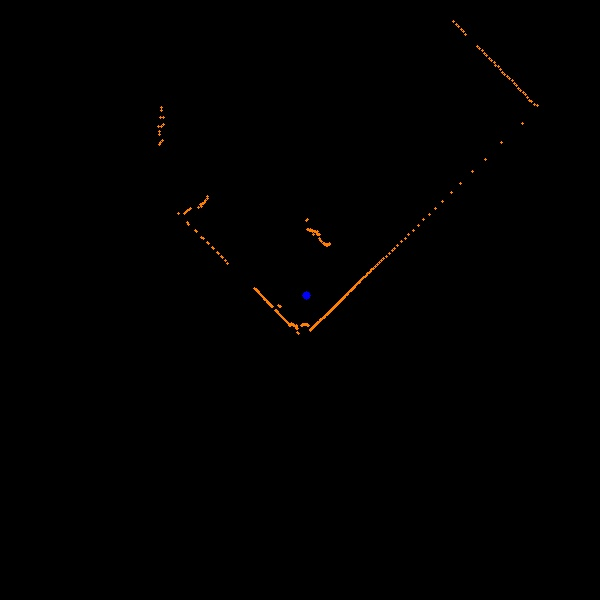
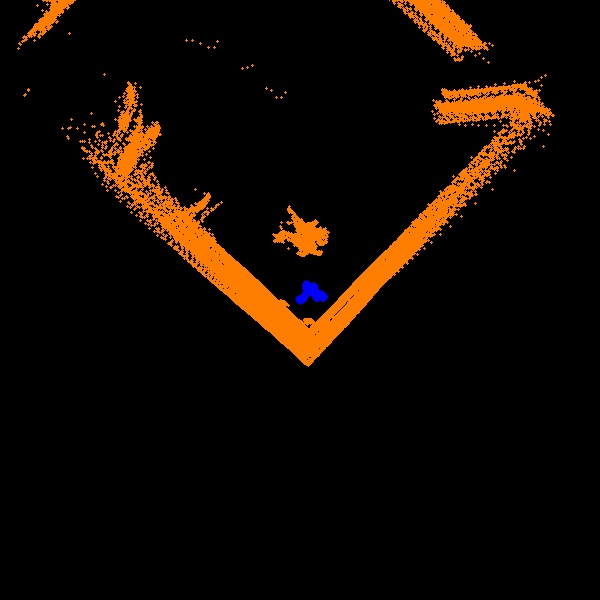
updated self-navigator

Changed region(s): [[0.09, 0.0, 0.93, 0.63], [0.03, 0.0, 0.12, 0.09]]

diff --git a/src/modules/self_navigator/self_navigator_main.cpp b/src/modules/self_navigator/self_navigator_main.cpp
@@ -16,7 +16,9 @@ static bool thread_should_exit = false;
 static int daemon_task;
 
 __self_nav Nav;
+__coordinate_cov Cov, Cov_Current;
 int test_flight();			// 试飞
+int test_flight_socket();
 
 int self_navigator_main(int argc, char *argv[])
 {
@@ -58,28 +60,21 @@ int self_navigator_thread_main(int argc, char *argv[])
 {
 	//uint64_t timetick = hrt_absolute_time();
 	//int sended = 0;
-	__NED tgt_ned = { 0 }, current_ned = { 0 };
 	int rc_ch8 = 0;
-	__coordinate_cov Cov, Cov_Current;
 
 	Nav.Init();
 
-	//int home_pos_sub = orb_subscribe(ORB_ID(home_position));
-	//px4_pollfd_struct_t fds;
-	//fds.events = POLLIN;
-
-	/// 更新起飞位置
-	while (Nav.update_HomePos() != SUCCESS) { }
-	Cov.update_HomePos(Nav.home_pos.lat, Nav.home_pos.lon, Nav.home_pos.alt);
+	/// 初始变量设置
+	Nav._command.target_system = Nav.vehicle_stat.system_id;//system_id写入
+	Nav._command.target_component = Nav.vehicle_stat.component_id;//component_id写入
 
 	/// 更新载具信息
 	//  这里开始获取vehicle_status,有vehicle_status_s里面的system_id和component_id才能发送vehicle_command命令飞机
 	while (Nav.update_VehicleStatus() != SUCCESS) { }
 
-
-	/// 初始变量设置
-	Nav._command.target_system = Nav.vehicle_stat.system_id;//system_id写入
-	Nav._command.target_component = Nav.vehicle_stat.component_id;//component_id写入
+	/// 更新起飞位置
+	while (Nav.update_HomePos() != SUCCESS) { }
+	Cov.update_HomePos(Nav.home_pos.lat, Nav.home_pos.lon, Nav.home_pos.alt);
 
 	/// 设置进入posctl模式
 	//  这样在退出offboard的时候会进入posctl，飞机不容易失控
@@ -88,7 +83,6 @@ int self_navigator_thread_main(int argc, char *argv[])
 		//如果没有跳出表示切换失败,循环回去再切换
 		usleep(10000);
 	}
-
 
 	///
 	//////////////////////////////////////////////////////////
@@ -106,61 +100,6 @@ int self_navigator_thread_main(int argc, char *argv[])
 
 	/// 拍视频的时候先用这个测试，省事
 	//test_flight();
-
-
-	Nav.update_User_Status(500);
-	Cov.update_Current_Pos(Nav.gbl_pos.lat, Nav.gbl_pos.lon, Nav.gbl_pos.alt);
-	tgt_ned = Cov.WGS84toNED(Nav.skt_recv.lat, Nav.skt_recv.lng, Nav.skt_recv.alt); // home position
-	Nav.get_Tgt_NED(tgt_ned);
-
-
-	float vx, vy;
-	double v_all = 1.5f;
-	double theta;
-	double d_lon, d_lat;
-
-	d_lon = (double)Nav.skt_recv.lng - Nav.gbl_pos.lon * 10000000.0f;
-	d_lat = (double)Nav.skt_recv.lat - Nav.gbl_pos.lat * 10000000.0f;
-
-	theta = atan2(d_lat, d_lon);
-	vx = v_all * sin(theta);
-	vy = v_all * cos(theta);
-
-	//Nav.set_Position(0, 0, 10, vx, vy);		// NAN NAN alt vx vy
-
-
-	int i = 0;
-	do
-	{
-		Nav.update_HeartBeat();
-
-		if (i % 10 == 0)
-		{
-			Nav.update_User_Status(100);
-			Cov.update_Current_Pos(Nav.gbl_pos.lat, Nav.gbl_pos.lon, Nav.gbl_pos.alt);
-			tgt_ned = Cov.WGS84toNED(Nav.skt_recv.lat, Nav.skt_recv.lng, Nav.skt_recv.alt); // home position
-			Nav.get_Tgt_NED(tgt_ned);
-
-			d_lon = (double)Nav.skt_recv.lng - Nav.gbl_pos.lon * 10000000.0f;
-			d_lat = (double)Nav.skt_recv.lat - Nav.gbl_pos.lat * 10000000.0f;
-
-			theta = atan2(d_lat, d_lon);
-			vx = v_all * sin(theta);
-			vy = v_all * cos(theta);
-
-			Nav.set_Position(0, 0, 10, vx, vy);		// NAN NAN alt vx vy
-
-			warnx("Lat %f, Lon %f", Nav.gbl_pos.lat, Nav.gbl_pos.lon);
-			i = 0;
-		}
-
-
-
-		usleep(300000);
-		i++;
-	} while (Nav.is_Reached_TgtLocation() != true);
-	Nav.Land();
-
 
 	///
 	/// 主循环
@@ -278,3 +217,64 @@ int test_flight()
 	return SUCCESS;
 
 }// int test_flight()
+
+int test_flight_socket()
+{
+	int i = 0;
+	__NED tgt_ned = { 0 }, current_ned = { 0 };
+
+	Nav.update_User_Status(500);
+	Cov.update_Current_Pos(Nav.gbl_pos.lat, Nav.gbl_pos.lon, Nav.gbl_pos.alt);
+	tgt_ned = Cov.WGS84toNED(Nav.skt_recv.lat, Nav.skt_recv.lng, Nav.skt_recv.alt); // home position
+	Nav.get_Tgt_NED(tgt_ned);
+
+
+	float vx, vy;
+	double v_all = 1.5f;
+	double theta;
+	double d_lon, d_lat;
+
+	d_lon = (double)Nav.skt_recv.lng - Nav.gbl_pos.lon * 10000000.0f;
+	d_lat = (double)Nav.skt_recv.lat - Nav.gbl_pos.lat * 10000000.0f;
+
+	theta = atan2(d_lat, d_lon);
+	vx = v_all * sin(theta);
+	vy = v_all * cos(theta);
+
+	//Nav.set_Position(0, 0, 10, vx, vy);		// NAN NAN alt vx vy
+
+
+	do
+	{
+		Nav.update_HeartBeat();
+
+		if (i % 10 == 0)
+		{
+			Nav.update_User_Status(100);
+			Cov.update_Current_Pos(Nav.gbl_pos.lat, Nav.gbl_pos.lon, Nav.gbl_pos.alt);
+			tgt_ned = Cov.WGS84toNED(Nav.skt_recv.lat, Nav.skt_recv.lng, Nav.skt_recv.alt); // home position
+			Nav.get_Tgt_NED(tgt_ned);
+
+			d_lon = (double)Nav.skt_recv.lng - Nav.gbl_pos.lon * 10000000.0f;
+			d_lat = (double)Nav.skt_recv.lat - Nav.gbl_pos.lat * 10000000.0f;
+
+			theta = atan2(d_lat, d_lon);
+			vx = v_all * sin(theta);
+			vy = v_all * cos(theta);
+
+			Nav.set_Position(0, 0, 10, vx, vy);		// NAN NAN alt vx vy
+
+			warnx("Lat %f, Lon %f", Nav.gbl_pos.lat, Nav.gbl_pos.lon);
+			i = 0;
+		}
+
+
+
+		usleep(300000);
+		i++;
+	} while (Nav.is_Reached_TgtLocation() != true);
+	Nav.Land();
+
+	return SUCCESS;
+
+}// int test_flight_socket()

diff --git a/src/modules/rplidar/lidar_msg.cpp b/src/modules/rplidar/lidar_msg.cpp
@@ -15,6 +15,10 @@ int __lidar_msg::init()
 	Acc  = { 0.0f };
 	AHRS = { 0.0f };
 
+	// 准备发布
+	slam_pub = orb_advertise(ORB_ID(rp_slam), &slam_data);
+
+
 	return 0;
 
 }// int __lidar_msg::init()
@@ -34,12 +38,21 @@ int __lidar_msg::receive_Data(int nms)
 
 }// int __lidar_msg::receive_Data()
 
-int __lidar_msg::publish_Data()
+int __lidar_msg::publish_SlamData(double dx, double dy, double x, double y)
 {
+	slam_data.x_last = slam_data.x;
+	slam_data.y_last = slam_data.y;
+	slam_data.x = x;
+	slam_data.y = y;
+
+	slam_data.dx = dx;
+	slam_data.dy = dy;
+
+	orb_publish(ORB_ID(rp_slam), slam_pub, &slam_data);
 
 	return 0;
 
-}// int __lidar_msg::publish_Data()
+}// int __lidar_msg::publish_SlamData(double dx, double dy, double x, double y)
 
 bool __lidar_msg::update_AHRS(int nms)
 {

diff --git a/src/modules/rplidar/include/lidar_msg.h b/src/modules/rplidar/include/lidar_msg.h
@@ -9,6 +9,7 @@
 #include <uORB/uORB.h>
 #include <uORB/topics/sensor_combined.h>
 #include <uORB/topics/vehicle_attitude.h>
+#include <uORB/topics/rp_slam.h>
 #include <poll.h>
 
 class __lidar_msg
@@ -22,7 +23,7 @@ public:
 	int init();
 
 	int receive_Data(int nms);
-	int publish_Data();
+	int publish_SlamData(double dx, double dy, double x, double y);
 
 private:
 
@@ -30,8 +31,13 @@ private:
 	int vehicle_att_sub_fd;
 	int sensor_combined_sub_fd;
 
+	// 激光雷达数据发布
+	orb_advert_t slam_pub;
+
 	struct vehicle_attitude_s vehicle_att;
 	struct sensor_combined_s  sensor_raw;
+
+	struct rp_slam_s slam_data;
 
 	bool update_AHRS(int nms);
 	bool update_VehicleAtt(int nms);

diff --git a/src/modules/rplidar/include/slam.h b/src/modules/rplidar/include/slam.h
@@ -33,6 +33,8 @@ public:
 	double yaw;
 	Mat    Map;
 
+	double dt;
+
 	int update_Data(vector<__scandot> in,
 					double dx_in, double dy_in,
 					double d_yaw_in);
@@ -61,8 +63,8 @@ private:
 	const double F = 1;
 	const double H = 1;
 	const double I = 1;
-	const double Q = 0.1  * 0.1;		// 0.05  * 0.05
-	const double R = 0.01 * 0.01;		// 0.005 * 0.005
+	const double Q = 0.07  * 0.07;		// 0.05  * 0.05
+	const double R = 0.005 * 0.005;		// 0.005 * 0.005
 
 	/// 卡尔曼滤波器全局变量
 	double Xx, Xy;
@@ -85,7 +87,7 @@ private:
 #else
 	double t_last, t_now;
 #endif
-	double dt;
+	//double dt;				// 转为公有
 	double update_Time();
 };
 

diff --git a/src/modules/rplidar/slam.cpp b/src/modules/rplidar/slam.cpp
@@ -30,6 +30,7 @@ __slam::__slam(double yaw_initial)
 {
 	__slam();
 
+	// 初始化的时候不知道为什么前面写好了这里还没作用
 	if (Map.empty())
 	{
 		Mat zero(Map_ImgHeight, Map_ImgWidth, CV_8UC3, Scalar(0, 0, 0));		// 图片格式： BGR
@@ -238,7 +239,7 @@ void __slam::draw_Map(bool is_show)
 	//Map = zero.clone();
 	//zero.release();
 	// 当前位置
-	circle(Map, Point((int)x_pixel, (int)y_pixel), 4, Scalar(255, 0, 0), -1, 8, 0);
+	circle(Map, Point((int)x_pixel, (int)y_pixel), 2, Scalar(255, 0, 255), -1, 8, 0);
 
 
 	for (unsigned int i = 0; i < data.size(); i++)	// scan_data.size()

diff --git a/src/modules/self_navigator/nav_basic.cpp b/src/modules/self_navigator/nav_basic.cpp
@@ -500,7 +500,7 @@ int __self_nav::Land()
 {
 	int i = 0;
 
-	while (i < 50)
+	while (i < 25)
 	{
 		i++;
 
@@ -545,11 +545,15 @@ int __self_nav::Land()
 		}
 
 		update_HeartBeat();
-		usleep(300000);		// 300ms
+		usleep(50000);		// 50ms
 	}
 
-	warnx("land failed!");
-	return FAILED;
+	///
+	/// 新版的不能使用降落命令了，直接改成设点
+	set_Position(NAN, NAN, 0 - 1.5f, 0, 0);
+	warnx("land command failed, attempt to land by setting nav-pt...");
+	//warnx("land failed!");
+	return STANDBY;
 
 }// int __self_nav::Land()
 

diff --git a/src/modules/rplidar/rplidar_task_main.cpp b/src/modules/rplidar/rplidar_task_main.cpp
@@ -93,6 +93,8 @@ int rplidar_thread_main(int argc, char *argv[])
 			slam.run(lidar.Data, icp.dx, icp.dy, icp.d_yaw,
 					 m.Acc.X, m.Acc.Y,
 					 m.AHRS);
+			m.publish_SlamData(slam.vx * slam.dt, slam.vy * slam.dt,
+							   slam.x, slam.y);
 
 			if (i % 25 == 0)
 				imwrite("slam.jpg", slam.Map);				// 50ms

diff --git a/src/modules/self_navigator/self_navigator.h b/src/modules/self_navigator/self_navigator.h
@@ -83,6 +83,10 @@ public:
 	// 收到数据
 	struct vehicle_command_ack_s _ack;
 
+	/// 基本模式选择
+	bool is_gps_online;
+	bool is_lidar_online;
+	//bool is_datalink_online;
 
 	int Init();
 
